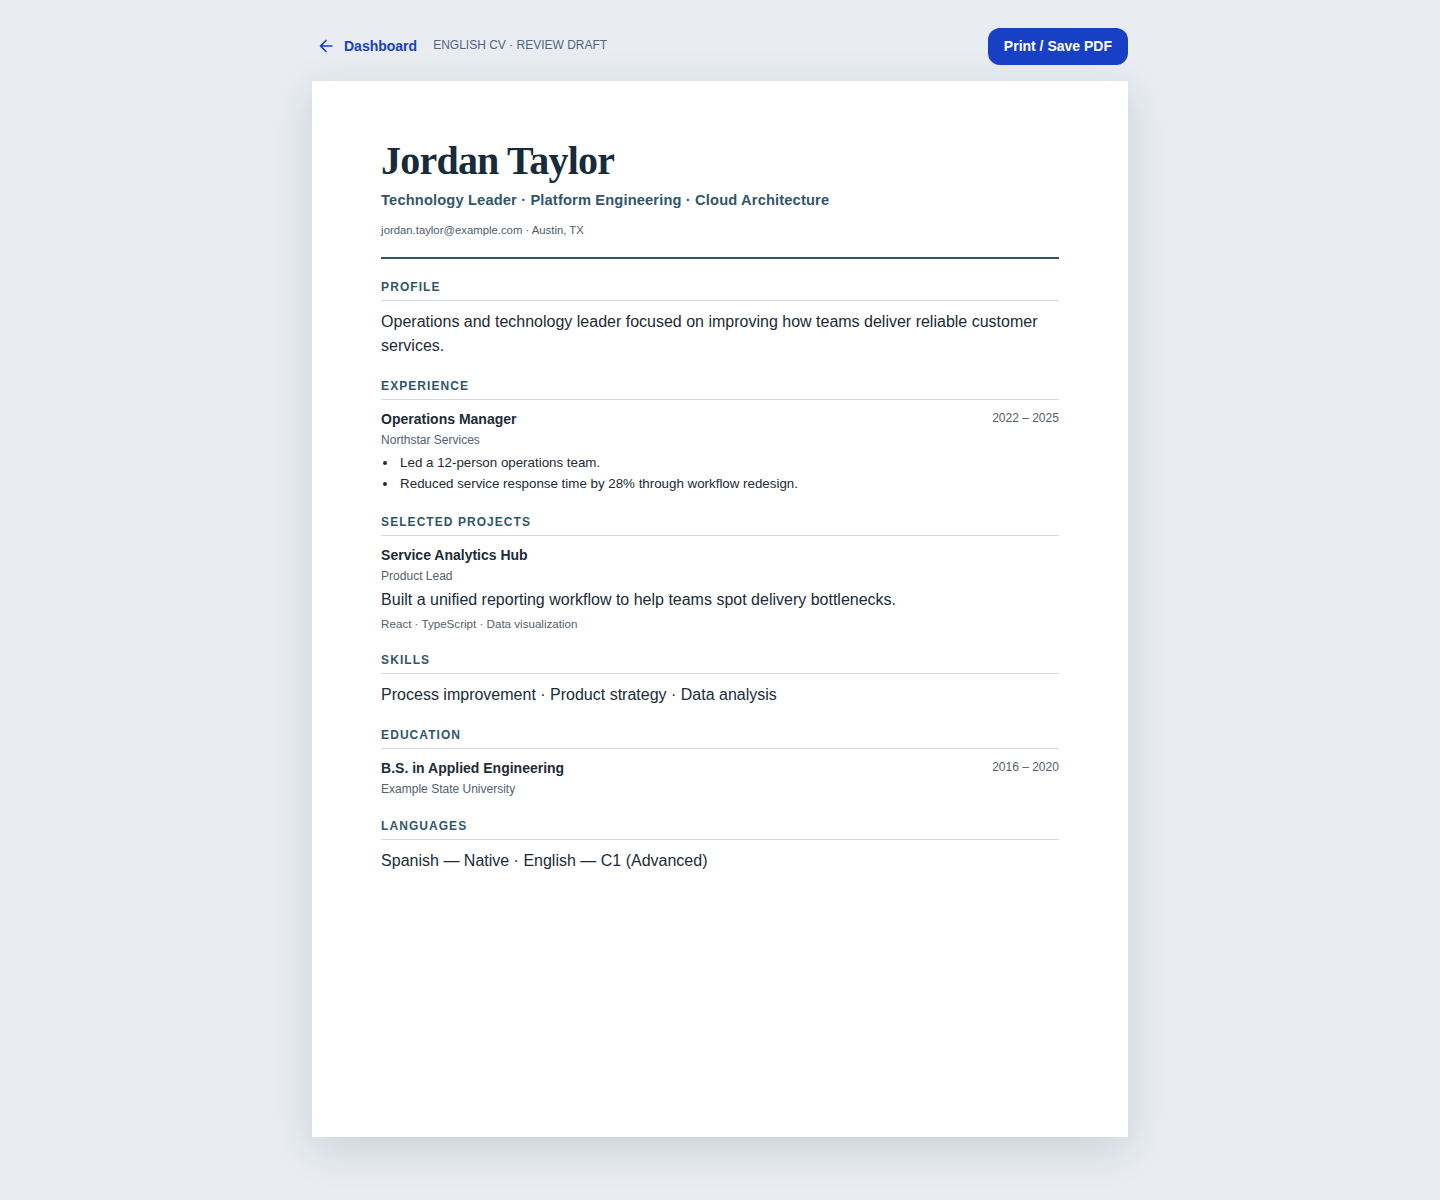
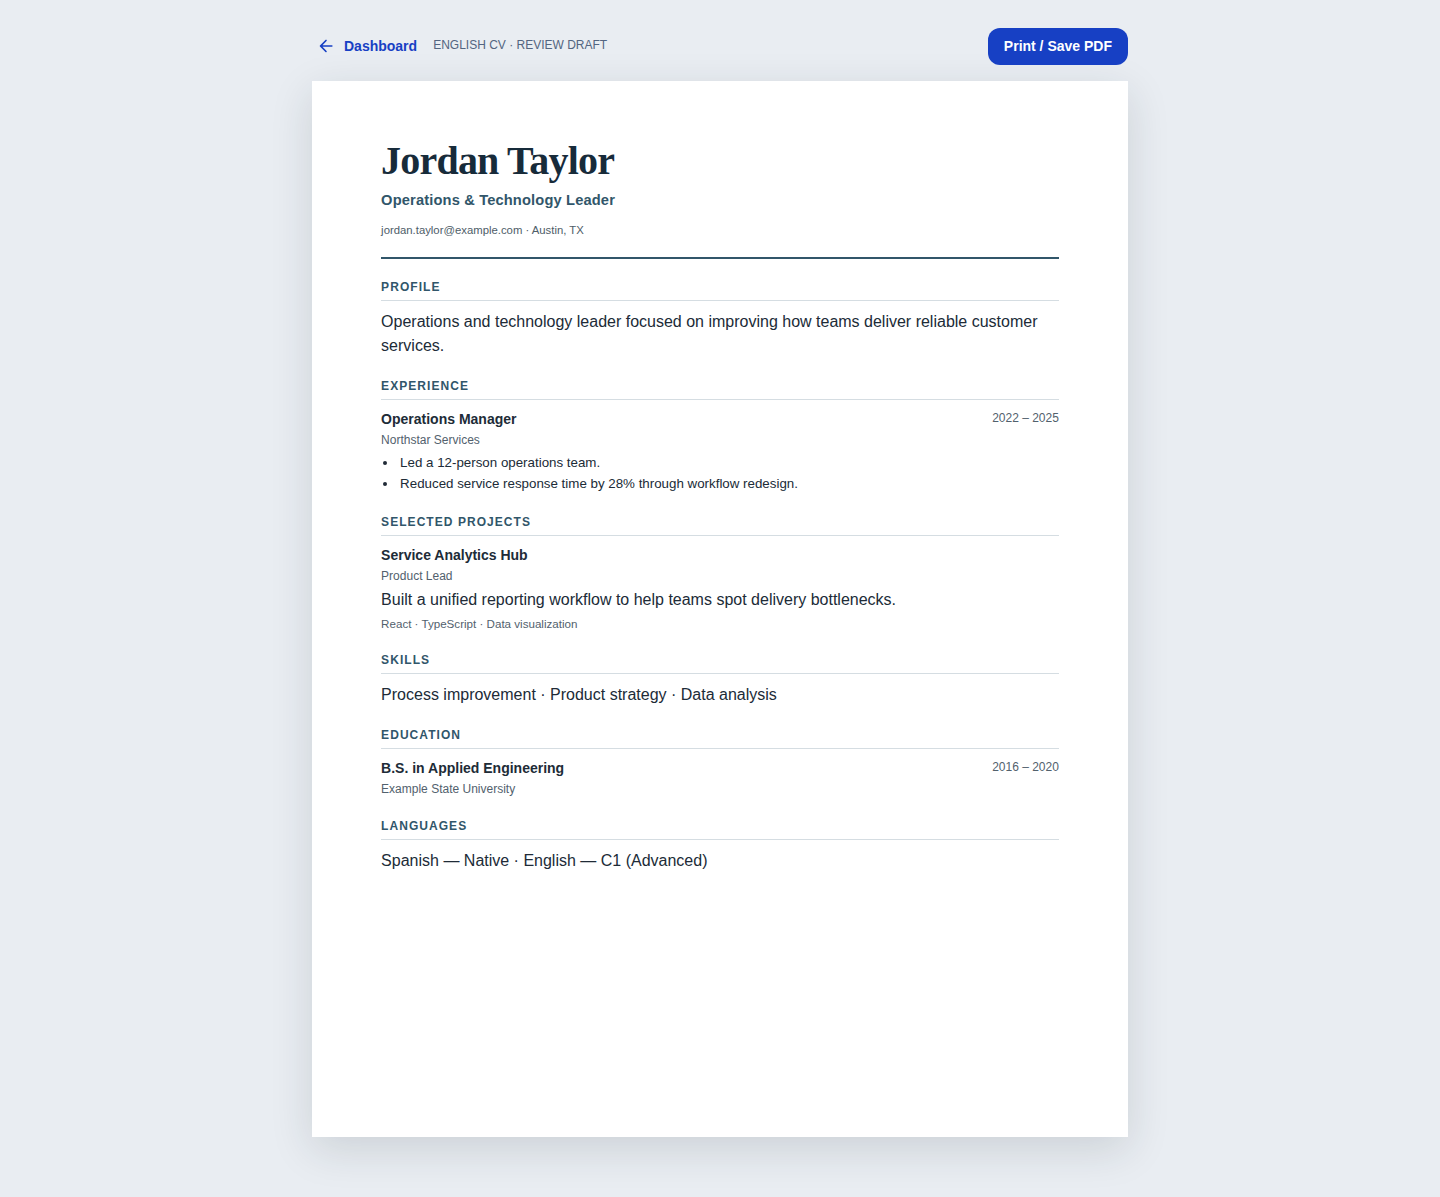
docs: publish full product screenshot gallery

diff --git a/app/[section]/page.tsx b/app/[section]/page.tsx
@@ -221,6 +221,24 @@ export default function SectionPage({
           <CvPreview profileId={profileId} records={portfolioRecords} />
         ) : isOutput ? (
           <Stack spacing={2}>
+            {section === 'linkedin' && (
+              <Paper sx={{ p: 3 }}>
+                <Typography variant="overline" color="text.secondary">
+                  VISTA PREVIA DE LINKEDIN
+                </Typography>
+                <Typography variant="h4" sx={{ mt: 1 }}>
+                  {portfolioRecords.find((item) => item.section === 'basic')?.values['Professional Headline'] ||
+                    'Titular profesional'}
+                </Typography>
+                <Typography color="text.secondary" sx={{ mt: 1 }}>
+                  {portfolioRecords.find((item) => item.section === 'basic')?.values['Professional Summary'] ||
+                    'Agrega tu resumen profesional en Información básica para ver aquí la sección «Acerca de». '}
+                </Typography>
+                <Button component={Link} href={`/profiles/${profileId}/basic`} sx={{ mt: 1 }}>
+                  Editar perfil profesional
+                </Button>
+              </Paper>
+            )}
             <Paper sx={{ p: 3 }}>
               <Typography variant="overline" color="text.secondary">
                 BORRADOR PARA REVISAR
@@ -250,13 +268,18 @@ export default function SectionPage({
                       )}
                     </Paper>
                   ))}
+                {!portfolioRecords.some((item) => item.section === 'projects') && (
+                  <Typography color="text.secondary">
+                    Aún no hay proyectos. Agrega uno para completar esta sección de tu perfil.
+                  </Typography>
+                )}
               </Stack>
               <Button component={Link} href={`/profiles/${profileId}/projects`} sx={{ mt: 1 }}>
-                Edit projects
+                Agregar o editar proyectos
               </Button>
             </Paper>
             <Paper sx={{ p: 3 }}>
-              <Typography variant="h4">Skills</Typography>
+              <Typography variant="h4">Habilidades</Typography>
               <Stack direction="row" useFlexGap flexWrap="wrap" gap={1} sx={{ mt: 2 }}>
                 {portfolioRecords
                   .filter((item) => item.section === 'skills')
@@ -271,8 +294,13 @@ export default function SectionPage({
                     </Box>
                   ))}
               </Stack>
+              {!portfolioRecords.some((item) => item.section === 'skills') && (
+                <Typography color="text.secondary" sx={{ mt: 1 }}>
+                  Aún no hay habilidades. Agrega las que puedas respaldar con ejemplos.
+                </Typography>
+              )}
               <Button component={Link} href={`/profiles/${profileId}/skills`} sx={{ mt: 1 }}>
-                Edit skills
+                Agregar o editar habilidades
               </Button>
             </Paper>
             {saved && <Chip label="Draft updated" color="success" />}
@@ -325,9 +353,11 @@ export default function SectionPage({
                   <AccordionSummary expandIcon={<ExpandMoreRoundedIcon />}>
                     <Typography fontWeight={800}>
                       {record.values['Nombre completo'] ||
+                        record.values['Nombre del proyecto'] ||
+                        record.values['Título o programa'] ||
                         record.values.Skill ||
                         record.values['Cargo'] ||
-                        record.values['Descripción'] ||
+                        record.values['Institución'] ||
                         `Registro ${index + 1}`}
                     </Typography>
                   </AccordionSummary>
@@ -336,10 +366,25 @@ export default function SectionPage({
                       {info.fields.map((field) => (
                         <TextField
                           key={field}
-                          label={field}
+                          label={getFieldLabel(field)}
                           defaultValue={record.values[field] || ''}
                           fullWidth
                           size="small"
+                          helperText={
+                            field === 'Professional Headline'
+                              ? 'En inglés: el titular que aparecerá en tu CV.'
+                              : field === 'Professional Summary'
+                                ? 'En inglés: tu resumen para el CV y LinkedIn.'
+                                : undefined
+                          }
+                          multiline={['Professional Summary', 'Descripción', 'Logros y responsabilidades'].includes(
+                            field,
+                          )}
+                          minRows={
+                            ['Professional Summary', 'Descripción', 'Logros y responsabilidades'].includes(field)
+                              ? 3
+                              : undefined
+                          }
                           onBlur={(event) => {
                             record.values[field] = event.target.value;
                           }}
@@ -378,4 +423,10 @@ export default function SectionPage({
       </Box>
     </Box>
   );
+}
+
+function getFieldLabel(field: string) {
+  if (field === 'Professional Headline') return 'Titular profesional';
+  if (field === 'Professional Summary') return 'Resumen profesional';
+  return field;
 }

diff --git a/app/workspace.tsx b/app/workspace.tsx
@@ -300,12 +300,16 @@ export default function Workspace({ profileId = 'alex' }: { profileId?: string }
                 ['REFLEXIONES', `${messages.length} de ${prompts.length}`, 'Guardadas solo en este dispositivo'],
                 [
                   'ETAPA ACTUAL',
-                  messages.length >= steps.length ? 'Revisa tu perfil' : steps[messages.length].title,
+                  messages.length >= steps.length
+                    ? 'Reflexión completa'
+                    : steps[Math.max(messages.length - 1, 0)].title,
                   `${Math.round((Math.min(messages.length, prompts.length) / prompts.length) * 100)}% completado`,
                 ],
                 [
                   'SIGUIENTE PASO',
-                  messages.length >= prompts.length ? 'Revisar el perfil' : steps[messages.length].note,
+                  messages.length >= prompts.length
+                    ? 'Completa tu perfil'
+                    : steps[Math.min(messages.length, steps.length - 1)].note,
                   'Tú decides qué guardar y compartir',
                 ],
               ].map((x, i) => (
@@ -430,22 +434,24 @@ export default function Workspace({ profileId = 'alex' }: { profileId?: string }
                     sx={{ '& .MuiOutlinedInput-root': { bgcolor: '#fbfcfe' } }}
                   />
                 )}
-                <Stack direction="row" justifyContent="space-between" alignItems="center" sx={{ mt: 2 }}>
-                  <Typography variant="caption" color="text.secondary">
-                    {answer.length}/{maxAnswerLength} caracteres · Guardado en este dispositivo al continuar.{' '}
-                    {aiConfigured
-                      ? 'Al continuar, enviarás tus respuestas al proveedor de IA configurado.'
-                      : 'Configura una IA para recibir comentarios; las respuestas se quedan en este dispositivo.'}
-                  </Typography>
-                  <Button
-                    variant="contained"
-                    endIcon={<ArrowForwardRoundedIcon />}
-                    onClick={send}
-                    disabled={loading || !answer.trim() || !nextPrompt(messages.length)}
-                  >
-                    {loading ? 'Generando…' : 'Continuar'}
-                  </Button>
-                </Stack>
+                {nextPrompt(messages.length) && (
+                  <Stack direction="row" justifyContent="space-between" alignItems="center" sx={{ mt: 2 }}>
+                    <Typography variant="caption" color="text.secondary">
+                      {answer.length}/{maxAnswerLength} caracteres · Guardado en este dispositivo al continuar.{' '}
+                      {aiConfigured
+                        ? 'Al continuar, enviarás tus respuestas al proveedor de IA configurado.'
+                        : 'Configura una IA para recibir comentarios; las respuestas se quedan en este dispositivo.'}
+                    </Typography>
+                    <Button
+                      variant="contained"
+                      endIcon={<ArrowForwardRoundedIcon />}
+                      onClick={send}
+                      disabled={loading || !answer.trim()}
+                    >
+                      {loading ? 'Generando…' : 'Continuar'}
+                    </Button>
+                  </Stack>
+                )}
               </Paper>
             </Box>
           </Box>

diff --git a/tests/e2e/sections.spec.ts b/tests/e2e/sections.spec.ts
@@ -31,10 +31,50 @@ test.describe('secciones profesionales', () => {
 
   test('shows the project summary and printable CV without fake enhancement controls', async ({ page }) => {
     await page.goto('/profiles/alex/linkedin');
+    await expect(
+      page.getByText('Agrega tu resumen profesional en Información básica para ver aquí la sección «Acerca de». '),
+    ).toBeVisible();
     await expect(page.getByRole('heading', { name: 'Proyectos destacados' })).toBeVisible();
+    await expect(
+      page.getByText('Aún no hay proyectos. Agrega uno para completar esta sección de tu perfil.'),
+    ).toBeVisible();
+    await expect(page.getByText('Aún no hay habilidades. Agrega las que puedas respaldar con ejemplos.')).toBeVisible();
     await expect(page.getByRole('button', { name: 'Enhance' })).toHaveCount(0);
     await page.goto('/profiles/alex/curriculum');
     await expect(page.getByRole('button', { name: 'Print / Save PDF' })).toBeVisible();
     await expect(page.getByText('ENGLISH CV · REVIEW DRAFT')).toBeVisible();
+    await expect(page.getByText('Technology Leader · Platform Engineering · Cloud Architecture')).toHaveCount(0);
+  });
+
+  test('uses the saved professional headline and a clear record title', async ({ page }) => {
+    await page.goto('/profiles/alex/basic');
+    const now = new Date().toISOString();
+    await page.evaluate((createdAt) => {
+      const key = 'ia-curriculum:records:alex:v1';
+      const records = [
+        {
+          id: 'sample-basic',
+          section: 'basic',
+          values: { 'Nombre completo': 'Jordan Taylor', 'Professional Headline': 'Operations Leader' },
+          createdAt,
+          updatedAt: createdAt,
+        },
+        {
+          id: 'sample-project',
+          section: 'projects',
+          values: { 'Nombre del proyecto': 'Service Analytics Hub', Descripción: 'Test description' },
+          createdAt,
+          updatedAt: createdAt,
+        },
+      ];
+      localStorage.setItem(key, JSON.stringify(records));
+    }, now);
+    await page.reload();
+    await expect(page.getByText('Jordan Taylor', { exact: true })).toBeVisible();
+    await expect(page.getByLabel('Titular profesional')).toBeVisible();
+    await page.goto('/profiles/alex/projects');
+    await expect(page.getByRole('button', { name: 'Service Analytics Hub', exact: true })).toBeVisible();
+    await page.goto('/profiles/alex/curriculum');
+    await expect(page.getByText('Operations Leader')).toBeVisible();
   });
 });

diff --git a/tests/e2e/navigation.spec.ts b/tests/e2e/navigation.spec.ts
@@ -24,12 +24,17 @@ test.describe('navegación principal', () => {
 
   test('avanza la pregunta después de cada respuesta', async ({ page }) => {
     await page.goto('/profiles/alex');
+    await expect(page.getByText('El trabajo que buscas', { exact: true }).first()).toBeVisible();
+    await expect(page.getByText('0% completado')).toBeVisible();
     const question = page.getByRole('heading', {
       name: /¿Qué tipo de trabajo|¿Qué problema te gusta resolver|Cuéntame un momento/,
     });
     await expect(question).toContainText('¿Qué tipo de trabajo');
     await page.getByPlaceholder('Escribe aquí tu respuesta...').fill('Quiero un trabajo donde pueda crecer.');
     await page.getByRole('button', { name: 'Continuar' }).click();
+    await expect(page.getByRole('heading', { name: 'Tu dirección' })).toBeVisible();
+    await expect(page.getByText('Tu aporte', { exact: true }).last()).toBeVisible();
+    await expect(page.getByText('33% completado')).toBeVisible();
     await expect(question).toContainText('¿Qué problema te gusta resolver');
     await page.getByPlaceholder('Escribe aquí tu respuesta...').fill('Me gusta ordenar problemas.');
     await page.getByRole('button', { name: 'Continuar' }).click();
@@ -57,6 +62,9 @@ test.describe('navegación principal', () => {
     }
 
     await expect(page.getByRole('heading', { name: 'Ya tienes una base para tu perfil.' })).toBeVisible();
+    await expect(page.getByText('Reflexión completa')).toBeVisible();
+    await expect(page.getByText('Completa tu perfil')).toBeVisible();
+    await expect(page.getByRole('button', { name: 'Continuar' })).toHaveCount(0);
     await page.reload();
     await expect(page.getByRole('heading', { name: 'Ya tienes una base para tu perfil.' })).toBeVisible();
     await page.getByRole('button', { name: 'Nueva sesión' }).click();

diff --git a/app/components/cv-preview.tsx b/app/components/cv-preview.tsx
@@ -38,7 +38,9 @@ export function CvPreview({ profileId, records }: { profileId?: string; records:
           <Typography component="h1" className="cv-name">
             {basic['Nombre completo'] || 'Your Name'}
           </Typography>
-          <Typography className="cv-headline">Technology Leader · Platform Engineering · Cloud Architecture</Typography>
+          {basic['Professional Headline'] && (
+            <Typography className="cv-headline">{basic['Professional Headline']}</Typography>
+          )}
           <Typography className="cv-contact">
             {[basic.Email, basic.Teléfono, basic['Ciudad y país'], basic.LinkedIn].filter(Boolean).join(' · ')}
           </Typography>

diff --git a/lib/profiles/sections.ts b/lib/profiles/sections.ts
@@ -4,7 +4,16 @@ export const sections: Record<string, SectionInfo> = {
   basic: {
     title: 'Información básica',
     description: 'Los datos esenciales que identifican tu perfil profesional.',
-    fields: ['Nombre completo', 'Email', 'Teléfono', 'Ciudad y país', 'Estado civil', 'Sitio web'],
+    fields: [
+      'Nombre completo',
+      'Professional Headline',
+      'Professional Summary',
+      'Email',
+      'Teléfono',
+      'Ciudad y país',
+      'Estado civil',
+      'Sitio web',
+    ],
   },
   education: {
     title: 'Educación',

diff --git a/tests/e2e/accessibility.spec.ts b/tests/e2e/accessibility.spec.ts
@@ -26,5 +26,5 @@ test('primary routes have no serious or critical accessibility violations', asyn
       (violation) => ['critical', 'serious'].includes(violation.impact ?? '') && violation.id !== 'aria-dialog-name',
     ),
   ).toEqual([]);
-  await expect(page.getByRole('dialog').getByRole('navigation', { name: 'Navegación principal' })).toBeVisible();
+  await expect(page.getByRole('dialog').getByRole('navigation', { name: 'Navegación principal' }).last()).toBeVisible();
 });

diff --git a/docs/screenshots.md b/docs/screenshots.md
@@ -1,0 +1,61 @@
+# Screenshot gallery
+
+These screens use fictional sample data generated in a temporary browser session. They do not contain real profile information or provider credentials.
+
+## Choose a profile
+
+![Profile selection](screenshots/profiles.png)
+
+## Guided reflection
+
+Start with the first prompt:
+
+![Reflection start](screenshots/reflection-start.png)
+
+After one answer, progress and next step update together:
+
+![Reflection in progress](screenshots/reflection-progress.png)
+
+Review the saved answers when all three prompts are complete:
+
+![Reflection complete](screenshots/reflection-complete.png)
+
+## Build a professional profile
+
+Basic information:
+
+![Basic information](screenshots/basic-information.png)
+
+Experience, including multiline achievements:
+
+![Experience](screenshots/experience.png)
+
+Education:
+
+![Education](screenshots/education.png)
+
+Projects:
+
+![Projects](screenshots/projects.png)
+
+Skills:
+
+![Skills](screenshots/skills.png)
+
+## Review and export
+
+LinkedIn-oriented profile preview:
+
+![LinkedIn preview](screenshots/linkedin-draft.png)
+
+Optional provider and local-data settings:
+
+![Settings](screenshots/settings.png)
+
+Printable English CV:
+
+![CV preview](screenshots/cv-preview.png)
+
+Mobile navigation:
+
+![Mobile navigation](screenshots/mobile-navigation.png)

diff --git a/README.md b/README.md
@@ -16,17 +16,17 @@ A local-first workspace for turning career reflections into an organized profess
 
 ## Screenshots
 
-These screenshots use a synthetic sample profile and contain no real user data.
+Explore the [full screenshot gallery](docs/screenshots.md). Images use synthetic profile data and contain no real user information.
 
-**Workspace**
+**Guided reflection**
 
-![IA Curriculum workspace](docs/screenshots/workspace.png)
+![IA Curriculum guided reflection](docs/screenshots/reflection-start.png)
 
 **English CV preview**
 
 ![Printable CV preview with sample content](docs/screenshots/cv-preview.png)
 
-To browse the app without installing it, open the screenshots above or the [screenshots folder](docs/screenshots/).
+No installation is needed to [browse the screenshot gallery](docs/screenshots.md).
 
 ## Quick start
 

diff --git a/docs/README.md b/docs/README.md
@@ -1,5 +1,6 @@
 # Documentation
 
+- [Screenshot gallery](./screenshots.md)
 - [Workspace and navigation](./workspace.md)
 - [Guided reflection](./guided-session.md)
 - [AI integration](./ai-integration.md)
